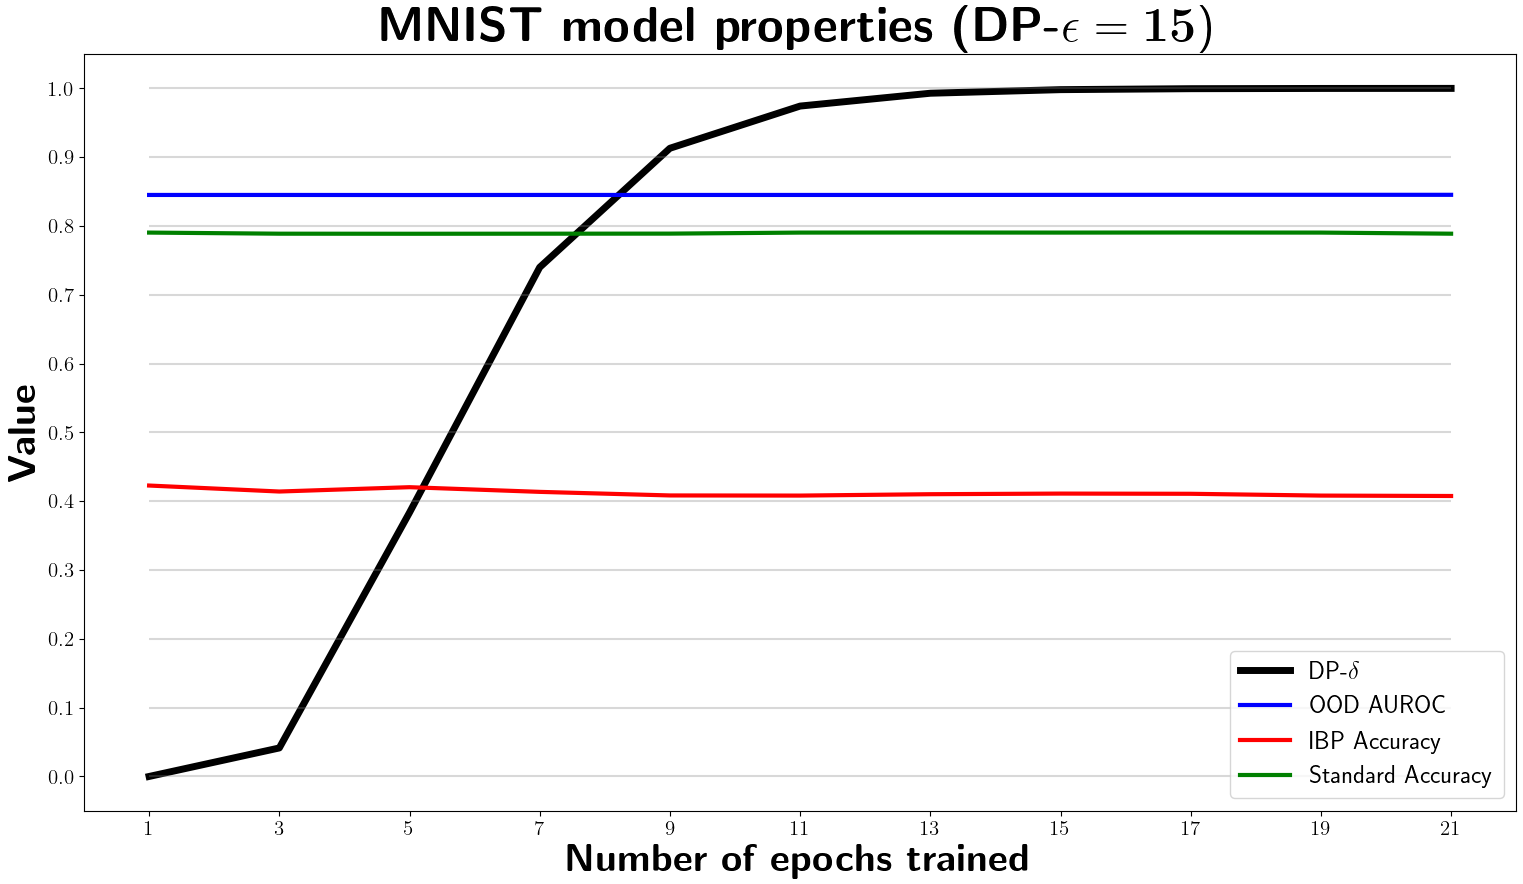
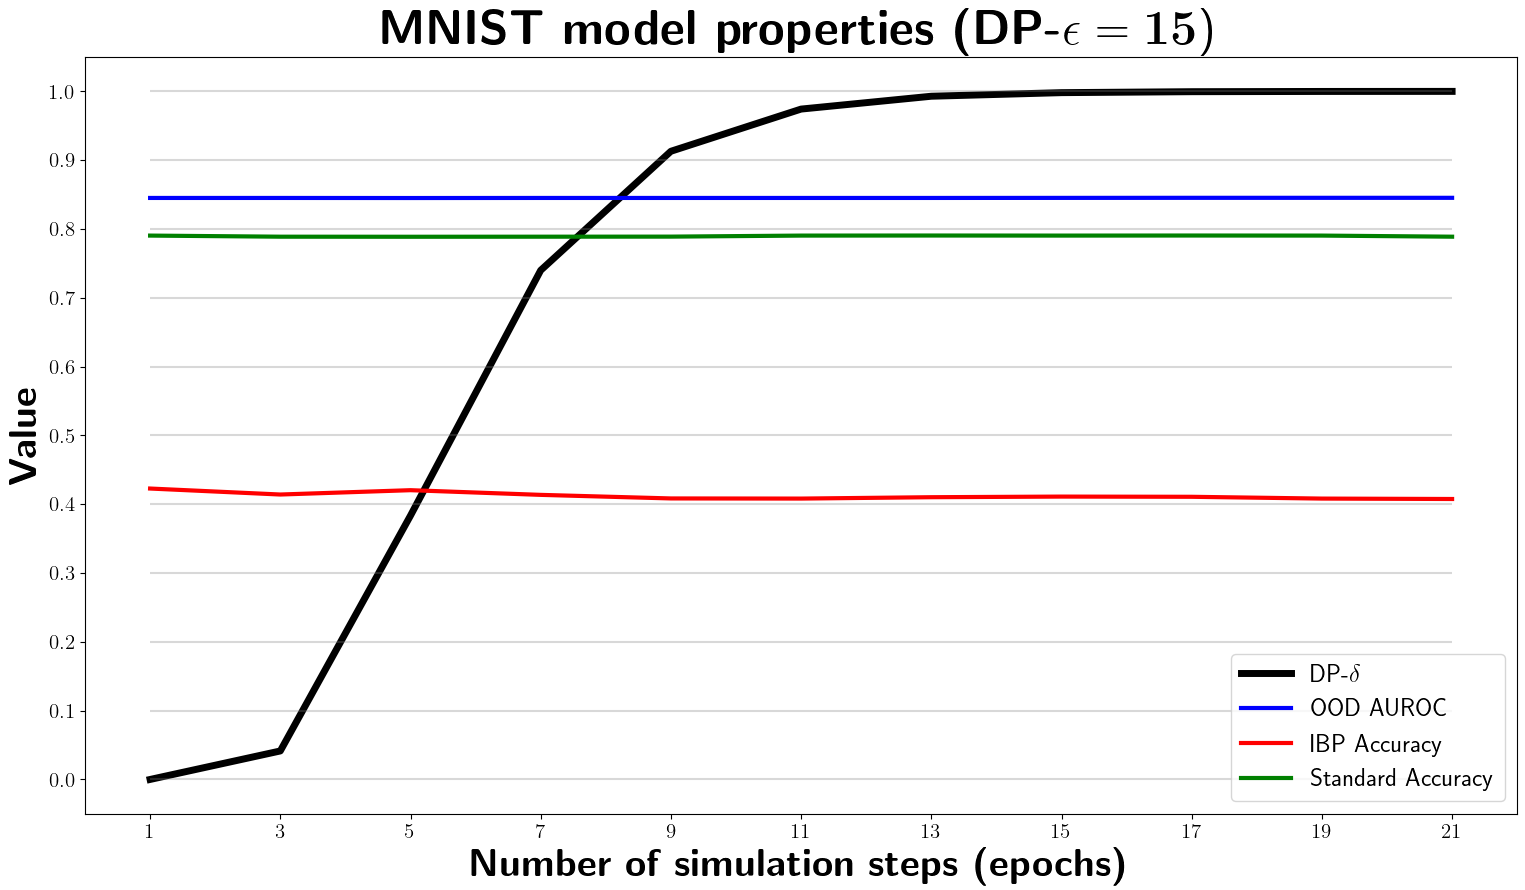
Redo privacy plots and remove main

diff --git a/experiments/plots.py b/experiments/plots.py
@@ -178,7 +178,7 @@ def plot_privacy_study(dset_name: str = "MNIST", lf_steps: int = 10, epsilon:int
         plt.title(r"\textbf{PneumoniaMNIST model properties (DP-$\mathbf{\epsilon = 10}$})", fontsize=35)
         plt.plot(epochs_trained, stds, label="Standard Accuracy", color="green", linewidth=3, alpha=1, linestyle="--")
     plt.ylabel(r"\textbf{Value}", fontsize=28)
-    plt.xlabel(r"\textbf{Number of epochs trained}", fontsize=28)
+    plt.xlabel(r"\textbf{Number of simulation steps (epochs)}", fontsize=28)
     plt.xticks(epochs_trained, fontsize=15)
     hlines = np.arange(0, 1.1, 0.1)
     plt.hlines(hlines, epochs_trained[0], epochs_trained[-1], colors="gray", alpha=0.3)
@@ -186,5 +186,3 @@ def plot_privacy_study(dset_name: str = "MNIST", lf_steps: int = 10, epsilon:int
 
     plt.legend(prop={'size': 18})
     plt.show()
-
-plot_ablation("PNEUMONIA")
